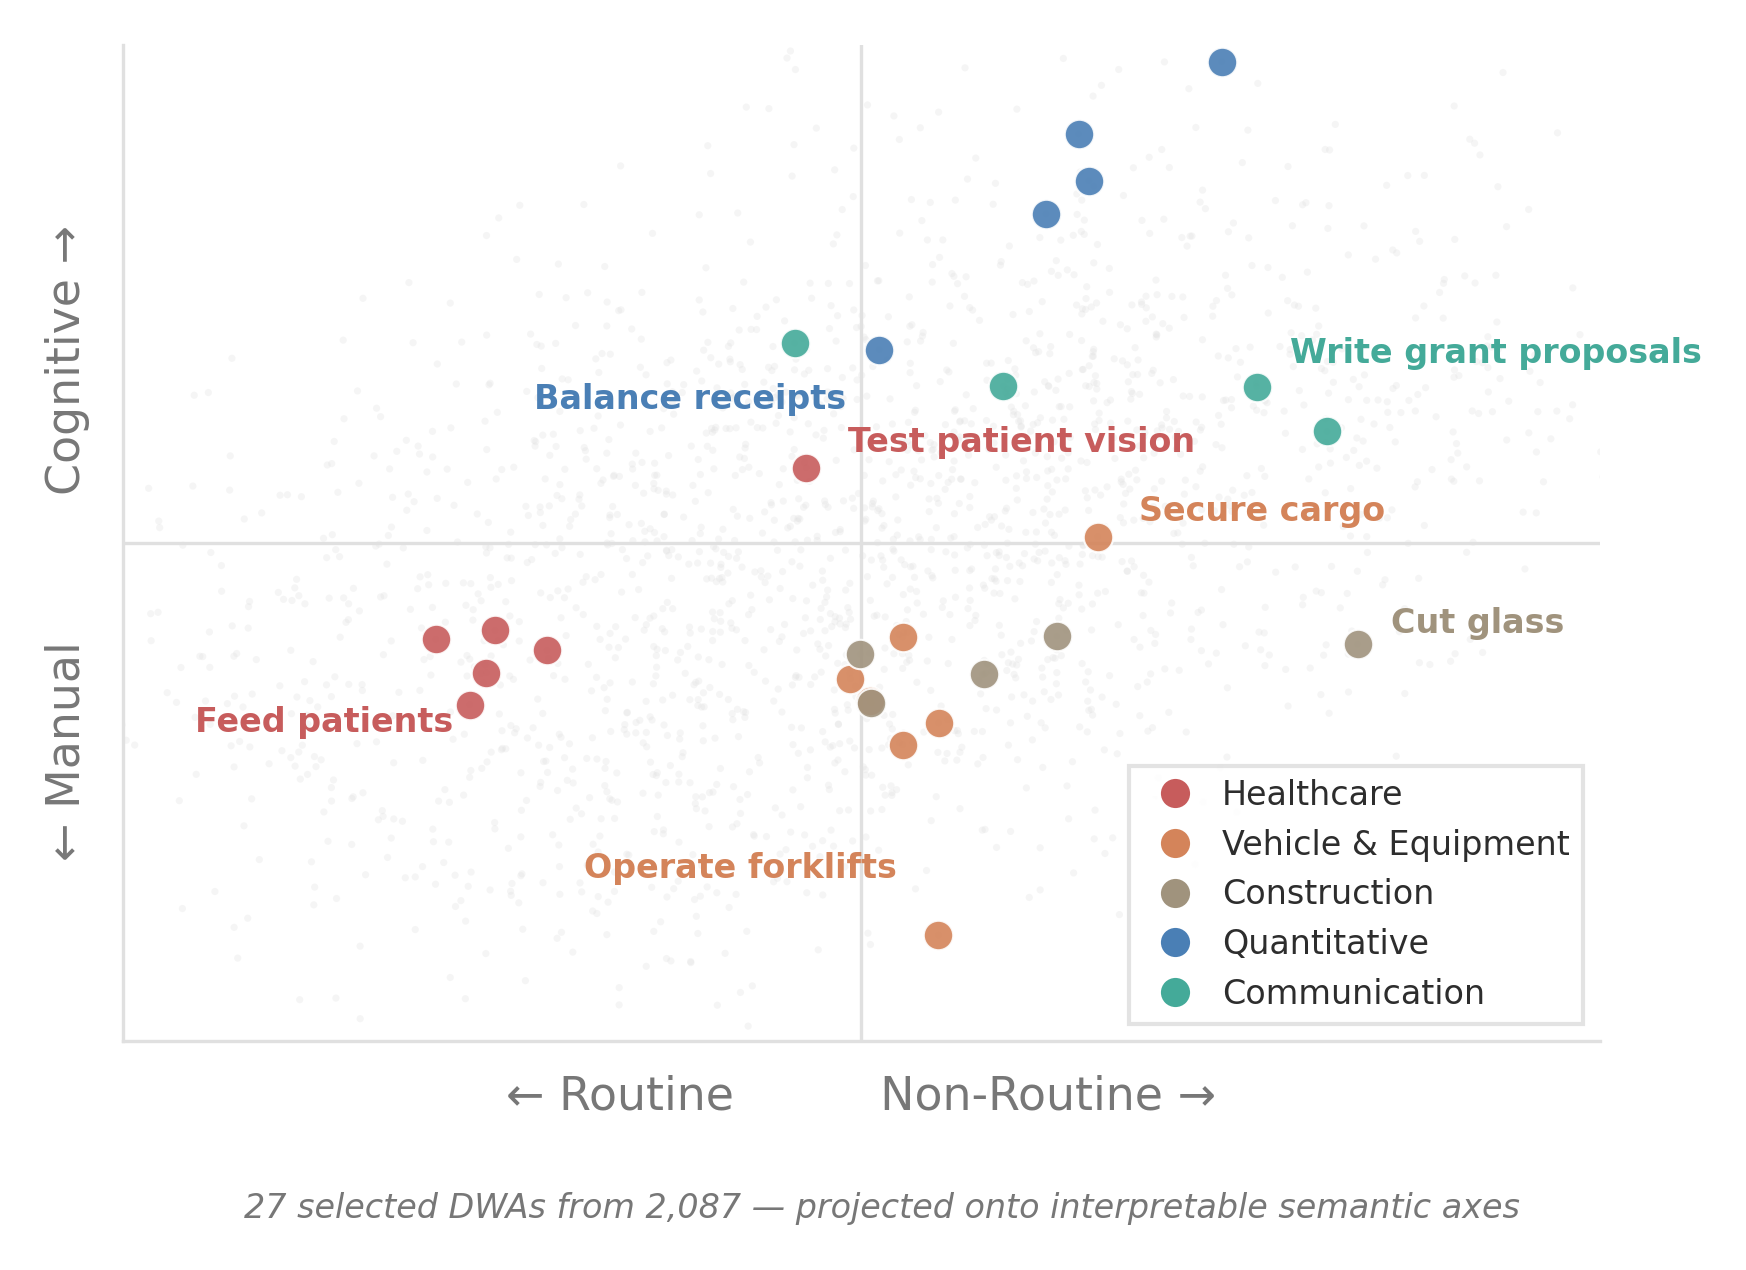
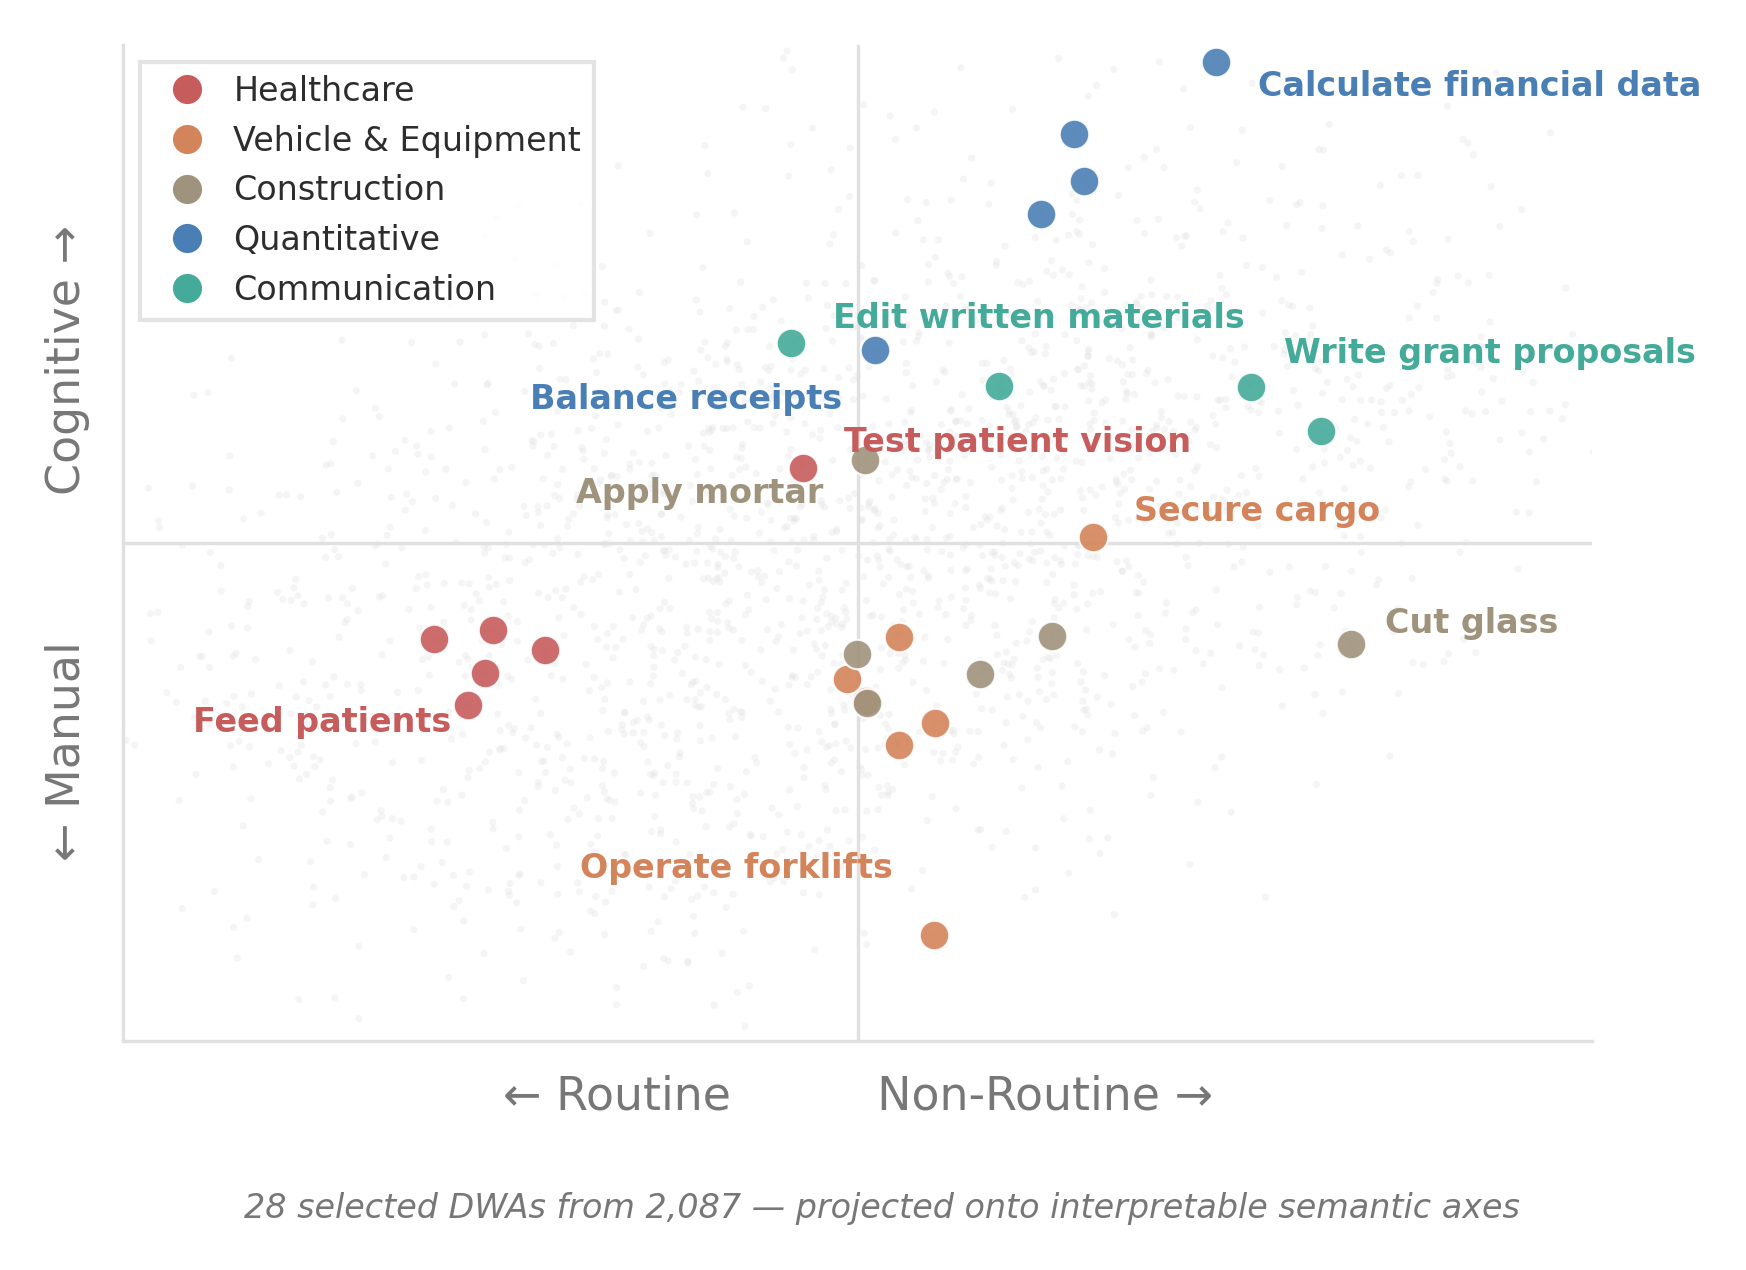
v0.7.10.14: Fig3 three more labels, legend upper-left

diff --git a/figures/fig3_task_scatter.py b/figures/fig3_task_scatter.py
@@ -52,6 +52,7 @@ CURATED = {
     ],
     'Construction': [
         'Cut glass.',
+        'Apply mortar.',
         'Weld metal components.',
         'Spread concrete or other aggregate mixtures.',
         'Cut tile, stone, or other masonry materials.',
@@ -79,8 +80,11 @@ LABELED = {
     'Secure cargo.',
     'Operate forklifts or other loaders.',
     'Cut glass.',
+    'Apply mortar.',
     'Balance receipts.',
+    'Calculate financial data.',
     'Write grant proposals.',
+    'Edit written materials.',
 }
 
 # Annotation offsets (dx, dy) in points
@@ -89,9 +93,12 @@ LABEL_OFFSETS = {
     'Test patient vision.':   (10, 6),
     'Secure cargo.':          (10, 6),
     'Operate forklifts or other loaders.': (-10, 16),
+    'Apply mortar.':          (-10, -8),
     'Cut glass.':             (8, 5),
     'Balance receipts.':      (-8, -12),
+    'Calculate financial data.': (10, -6),
     'Write grant proposals.': (8, 8),
+    'Edit written materials.': (10, 6),
 }
 
 # Display-name overrides for long titles
@@ -200,7 +207,7 @@ for _, row in sel_df[sel_df['labeled']].iterrows():
 handles = [Line2D([0], [0], marker='o', color='w',
                   markerfacecolor=CLUSTER_COLORS[t], markersize=8, label=t)
            for t in CLUSTER_COLORS]
-ax.legend(handles=handles, loc='lower right', fontsize=FONT_TICK, framealpha=0.9,
+ax.legend(handles=handles, loc='upper left', fontsize=FONT_TICK, framealpha=0.9,
           edgecolor=GRID, fancybox=False, handletextpad=0.4)
 
 # Axis labels

diff --git a/LEDGER.md b/LEDGER.md
@@ -1,6 +1,6 @@
 # LEDGER.md — Task-Space Oracle Research State
 
-**Current Version:** 0.7.10.13
+**Current Version:** 0.7.10.14
 **Last Updated:** 2026-03-10
 **Paper Draft:** `paper/main.tex`
 
@@ -764,6 +764,7 @@ Deprecated approaches. Do not retry.
 | Version | Date | Changes |
 |---------|------|---------|
 | 0.7.9.3 | 2026-03-09 | Captions for fig3/fig4, swap fig5/fig6 to Budget vs Credit Analysts. |
+| 0.7.10.14 | 2026-03-10 | Fig3 three more labels (Apply mortar, Calculate financial data, Edit written materials), legend upper-left. 28 DWAs, 10 labels. |
 | 0.7.10.13 | 2026-03-10 | Fig3 swap Pilot Aircraft for Secure Cargo + Operate Forklifts labels. 27 DWAs, 7 labels. |
 | 0.7.10.12 | 2026-03-10 | Add "Test patient vision" label to fig3 Healthcare theme. 25 DWAs, 6 labels. |
 | 0.7.10.11 | 2026-03-10 | Change GREEN to colorblind-safe teal (#44AA99, Tol palette). Regenerate fig3. |
